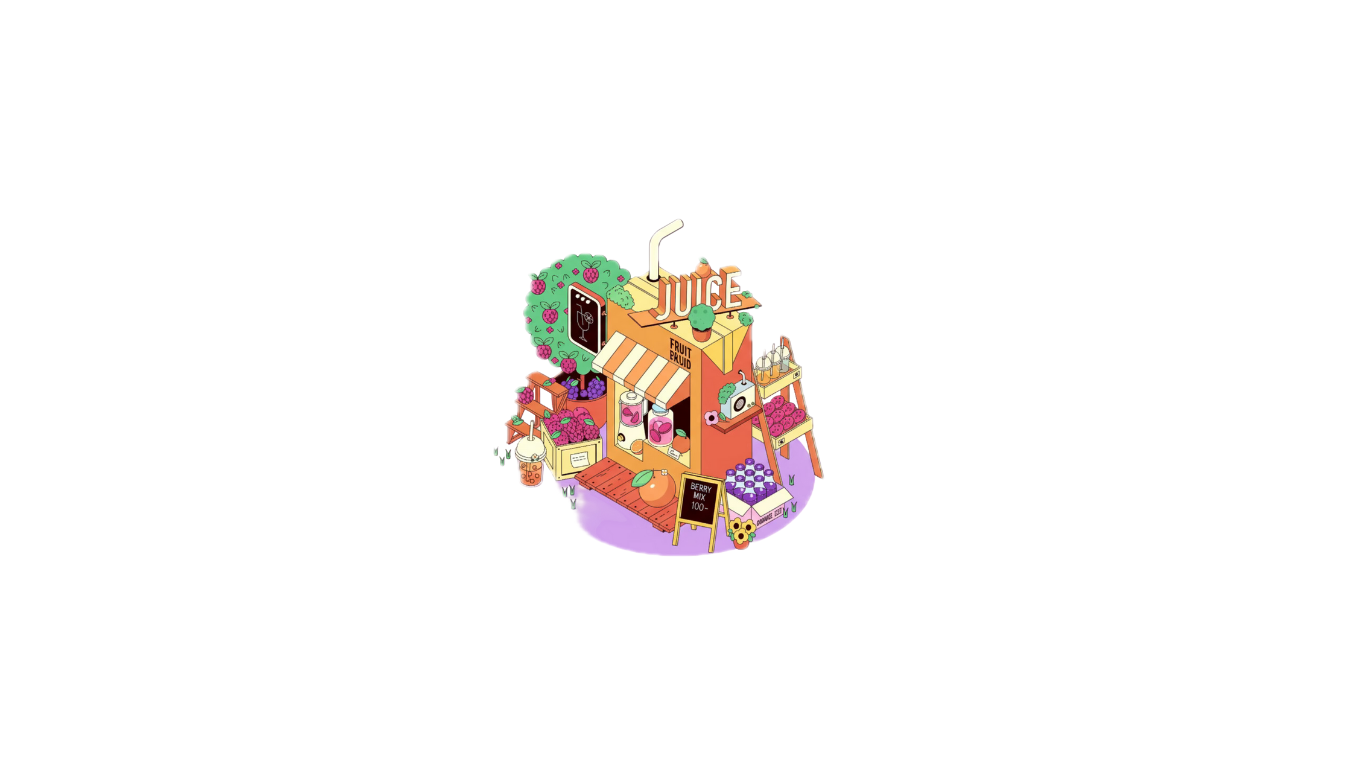
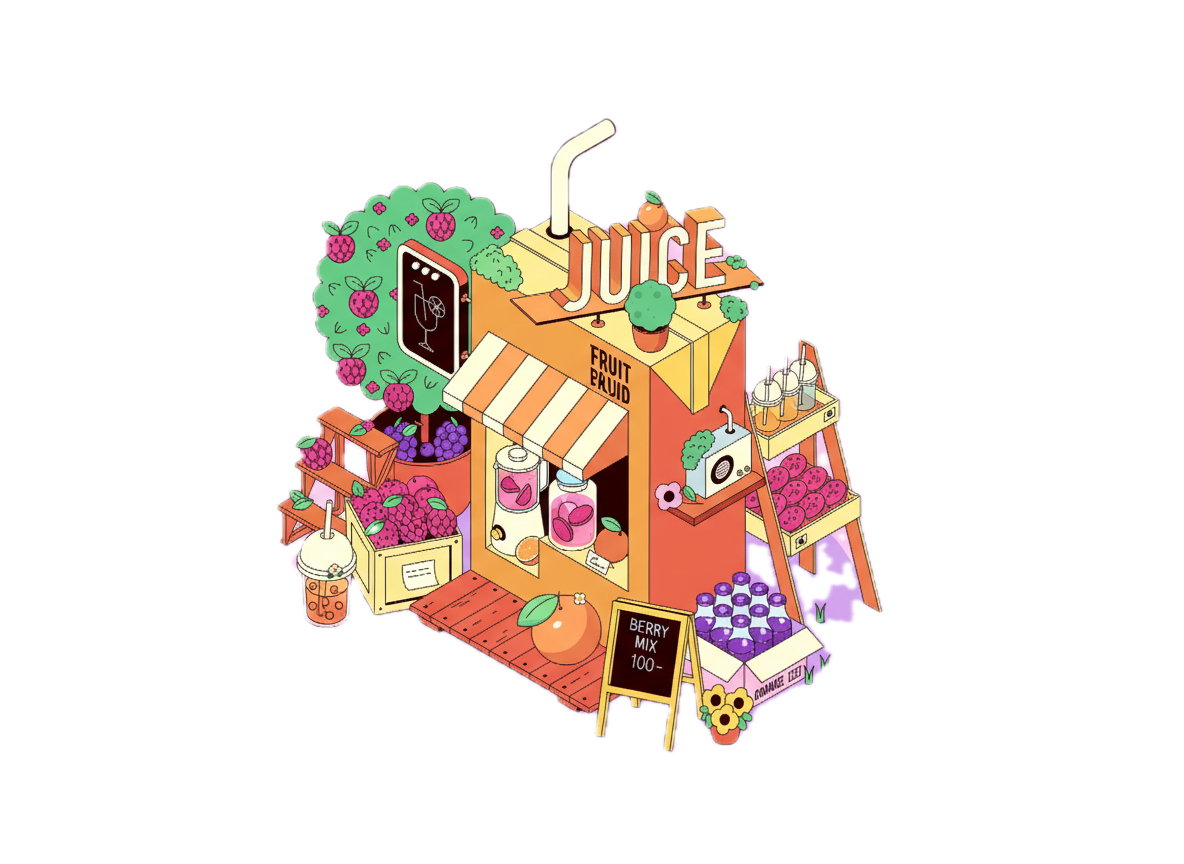
edit

Changed region(s): [[0.2188, 0.125, 0.75, 0.875]]

diff --git a/frontend/app/components/AuthForm.module.css b/frontend/app/components/AuthForm.module.css
@@ -21,8 +21,8 @@
 }
 
 .illustrationImage {
-    width: 100%;
-    height: 100%;
+    width: 400px;
+    height: 400px;
     max-height: 70vh;
     object-fit: cover;
     filter: drop-shadow(0 20px 40px rgba(0, 0, 0, 0.1));
